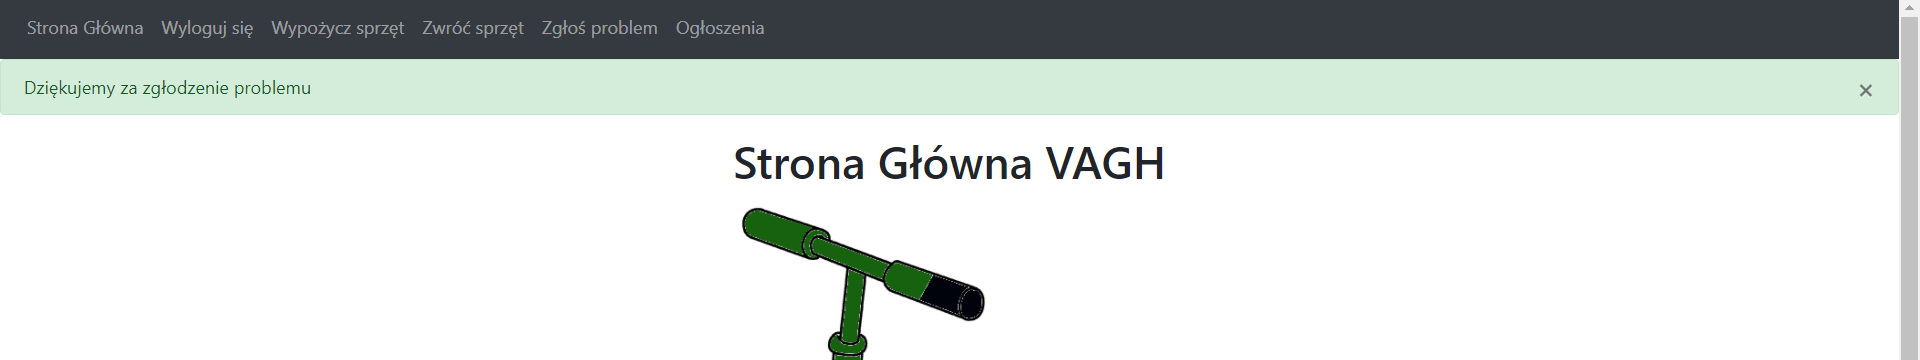
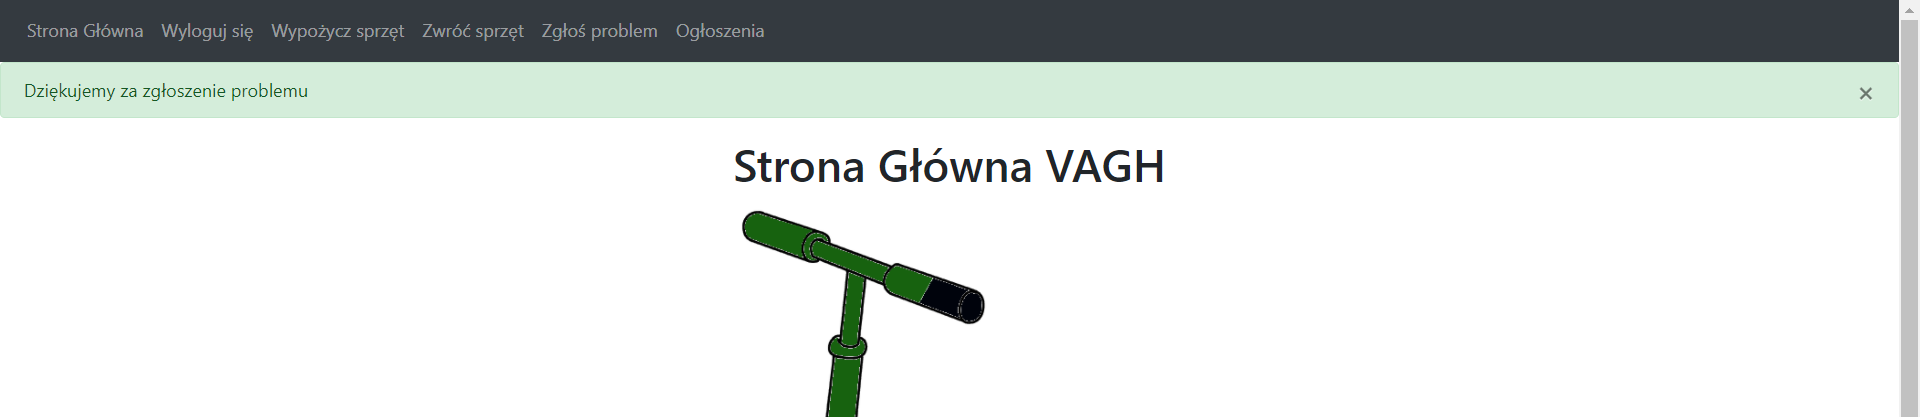
readme

Changed region(s): [[0.0, 0.2139, 1.0, 1.0], [0.0, 0.0611, 1.0, 0.1833], [0.9688, 0.2139, 1.0, 0.2444]]

diff --git a/website/auth.py b/website/auth.py
@@ -171,7 +171,7 @@ def report():
             flash('Nie możesz wysłać pustego zgłoszenia')
         else:
             add_report(user_id=current_user.id, description=new_report)
-            flash('Dziękujemy za zgłodzenie problemu')
+            flash('Dziękujemy za zgłoszenie problemu')
             return render_template("home.html", user=current_user)
     return render_template('report.html', user=current_user)
 

diff --git a/README.md b/README.md
@@ -1,3 +1,69 @@
-# VAGH Project
-<b>_MS Vehicle AGH_</b><br>
-<br> Celem projektu jest stworzenie strony internetowej, która umożliwi mieszkańcom Miasteczka Studenckiego wypożyczanie rowerów, hulajnóg, deskorolek, co ułatwiłoby lepszą komunikację na zajęcia stacjonarne.
+# _MS Vehicle AGH - instrukcja użytkownika_
+
+<b> 1. Uruchomienie aplikacji </b>
+
+Aktualnie aplikacja uruchamiana jest lokalnie. Po uruchomieniu terminala należy wpisać „python […]/main.py” (gdzie […]
+to lokalizacja pliku main.py (docelowo w plikach projektu)) w celu uruchomienia aplikacji. Następnie pojawi się
+komunikat, w którym będzie widniał link do skopiowania: http://127.0.0.1:5000/. Należy skopiować go i wkleić w
+przeglądarce internetowej. Użytkownik zostanie przekierowany na stronę aplikacji.  
+<b> 2. Logowanie oraz rejestracja </b>  
+
+W celu zalogowania się, użytkownik powinien wpisać poprawnie dane lub
+zarejestrować się.
+
+![](website/images/login.png)
+
+Rejestracja wymaga poprawności wprowadzanych danych.
+
+![](website/images/register.png)
+
+<b> 3. Strona główna </b>
+
+Po zalogowaniu się użytkownik zostanie przekierowany na stronę główną.
+
+![](website/images/home.png)
+
+<b> 4. Wypożyczenie sprzętu </b>
+
+W celu wypożyczenia sprzętu należy wcisnąć przycisk "Wypożycz sprzęt". Następnie należy wybrać rodzaj sprzętu oraz 
+lokalizację.
+
+![](website/images/rent1.png)
+
+![](website/images/rent2.png)
+
+![](website/images/rent3.png)
+
+<b> 5. Zwrot sprzętu </b>
+
+W celu zwrócenia sprzętu należy wcisnąć przycisk "Zwróć sprzęt", a następnie wybrać lokalizację, w ktorej sprzęt zostaje
+pozostawiony.
+
+![](website/images/return1.png)
+
+![](website/images/return2.png)
+
+Nie można zwrócić sprzętu, jeśli żadnego się nie wypożyczyło.
+
+![](website/images/return3.png)
+
+<b> 6. Ogłoszenia </b>
+
+W celu sprawdzenia ogłoszeń należy wcisnąć przycisk "Ogłoszenia".
+
+![](website/images/announcement.png)
+
+<b> 7. Zgłaszanie problemu </b>
+
+W celu zgłoszenia usterki należy wcisnąć przycisk "Zgłoś problem". Należy wpisać zgłoszenie a następnie kliknąć "Wyślij 
+zgłoszenie". Uwaga, zgłoszenie nie może być puste.
+
+![](website/images/report.png)
+
+![](website/images/report2.png)
+
+<b> 8. Wylogowanie </b>
+
+Aby wylogować się należy wcisnąć przycisk "Wyloguj się".
+
+![](website/images/login.png)
